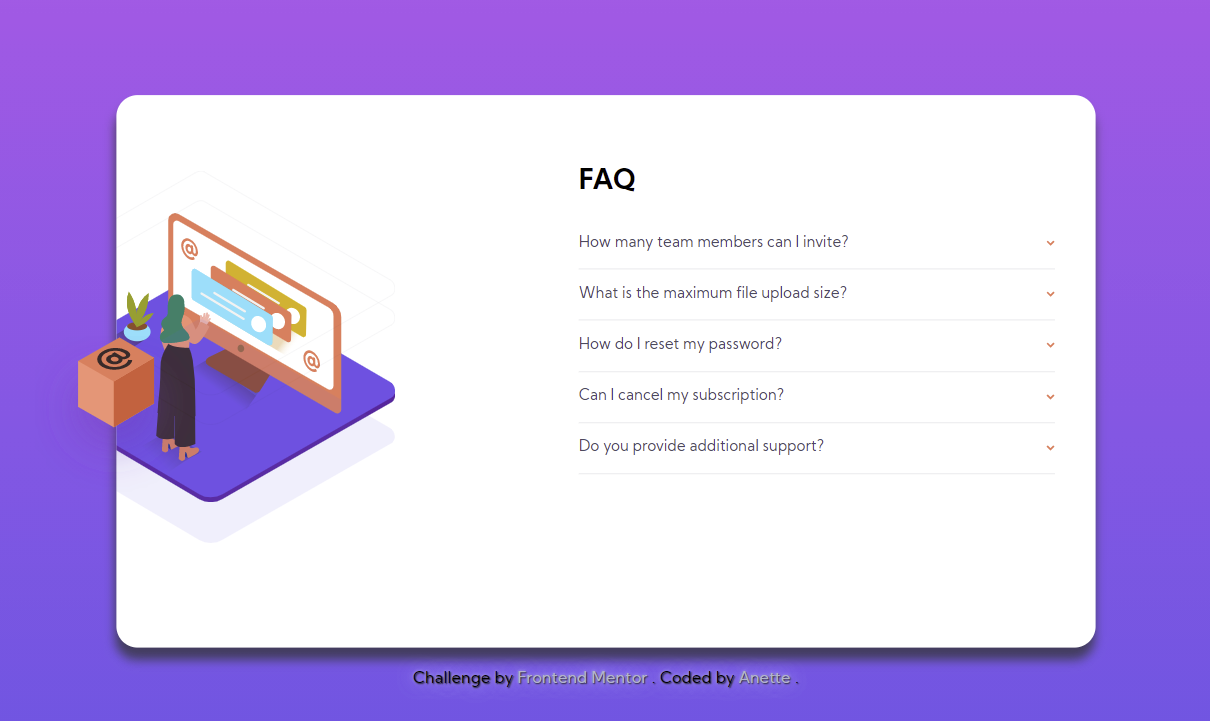
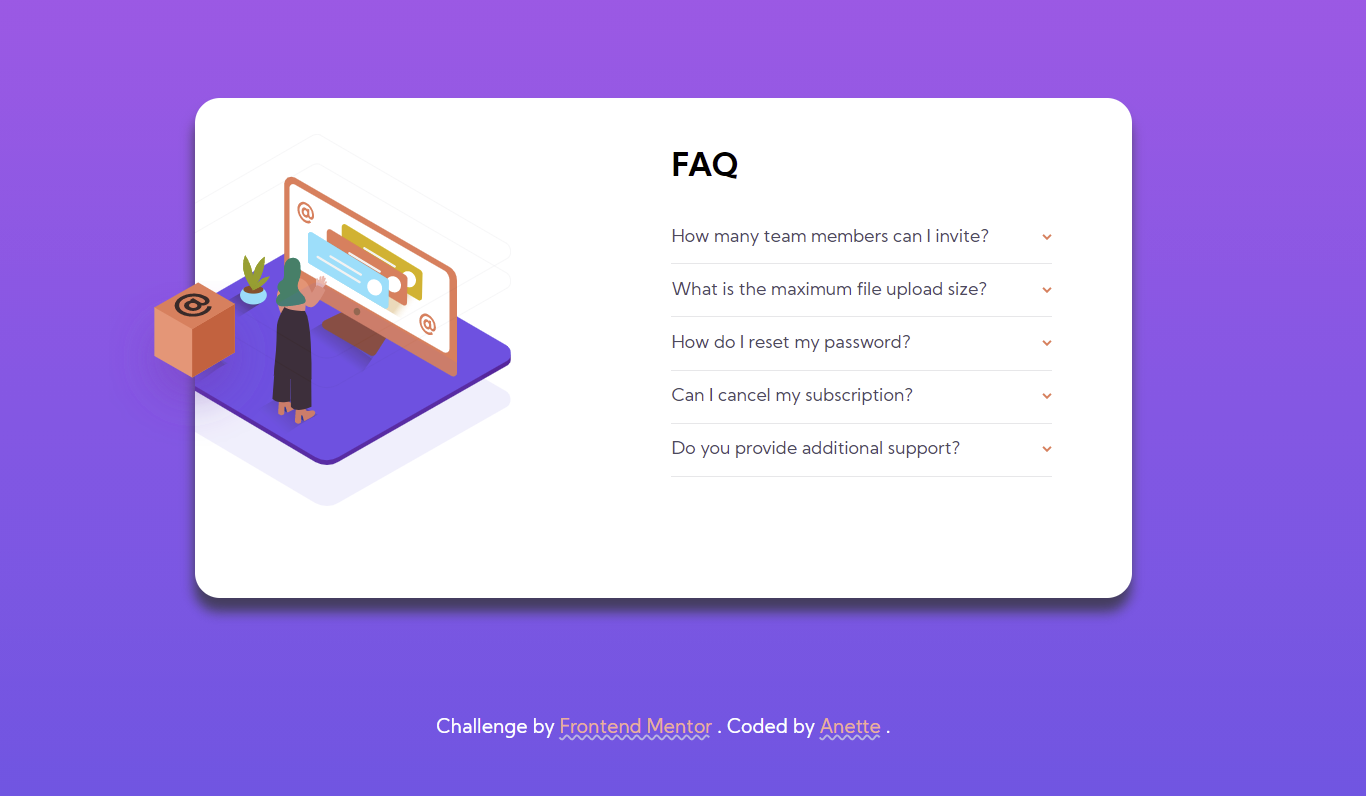
fixed the functionality to open and close tabs

diff --git a/src/App.css b/src/App.css
@@ -10,13 +10,13 @@
   background: #fff;
   border-radius: 25px;
   position: relative;
-  width: 80%;
+  width: 65%;
   display: flex;
   flex-direction: column;
   justify-content: center;
   align-content: center;
   margin: 0 auto;
-  height: 650px;
+  height: 500px;
   box-shadow: -1px 14px 12px 0px rgba(50, 50, 50, 0.75);
 }
 
@@ -25,18 +25,19 @@
   display: flex;
   flex-direction: row;
   gap: 1rem;
-  padding: 3rem;
+  padding: 1rem;
   width: 100%;
   height: 100%;
 }
 
 .cube::before {
-  overflow: visible;
   content: url('./images/illustration-box-desktop.svg');
+  overflow: visible;
   position: absolute;
   left: -6em;
-  bottom: 11em;
+  bottom: 8.5rem;
   z-index: 10;
+  transform: scale(90%);
 }
 
 .images {
@@ -45,21 +46,22 @@
 
   background-repeat: no-repeat;
   background-position: center;
-  background-size: 80%;
+  background-size: 100%;
+  height: 150%;
   display: flex;
   align-items: flex-start;
-  width: 50%;
+  width: 45%;
   position: relative;
-  right: 10em;
-  top: -1rem;
+  right: 1em;
+  top: -5rem;
   margin: -4rem;
 }
 
 .accordion {
-  width: 50%;
+  width: 45%;
   padding-right: 5rem;
-  padding-bottom: 3rem;
-  margin-left: 3rem;
+  padding-bottom: 1rem;
+  margin-left: 12rem;
   margin-right: 1rem;
 }
 
@@ -88,6 +90,9 @@
   display: flex;
   justify-content: space-between;
   align-items: center;
+  line-height: normal;
+  cursor: pointer;
+  user-select: none;
 }
 
 .line {
@@ -120,15 +125,16 @@
   position: relative;
   bottom: 100px;
   font-size: 1.2rem;
-  text-shadow: 1px 1px 2px hsl(0, 3%, 7%), 0 0 1em rgb(190, 190, 255), 0 0 0.2em rgb(190, 190, 255);
+  color: rgb(255, 255, 255);
 }
 .attribution a {
-  color: hsl(229, 22%, 75%);
-  text-decoration: none;
+  color: hsl(14, 100%, 79%);
+  text-decoration-style: wavy;
+  text-decoration-color: rgba(226, 223, 223, 0.658);
 }
 
 .attribution a:hover {
-  color: hsl(0, 0%, 11%);
+  filter: brightness(130%);
 }
 
 @media screen and (max-width: 600px) {

diff --git a/src/components/Card/Card.js b/src/components/Card/Card.js
@@ -4,41 +4,26 @@ import arrow from '../../images/icon-arrow-down.svg';
 import '../../App.css';
 
 const Card = ({ options, title }) => {
-  const [activeIndex, setActiveIndex] = useState(null);
+  const [visible, setVisible] = useState(false);
 
-  const onTitleClick = index => {
-    setActiveIndex(index);
+  const hiddenWhenVisible = { display: visible ? '' : 'none' };
+
+  const onTitleClick = () => {
+    console.log(visible);
+    setVisible(!visible);
   };
 
-  const renderedOptions = options.map((option, index) => {
-    return (
-      <div key={option.question}>
-        <div
-          onClick={() => onTitleClick(index)}
-          className={`flex ${index === activeIndex ? '' : 'active'}`}
-        >
-          <p className={`question ${index === activeIndex ? 'bold' : ''}`}>{option.question}</p>
-          <img className={`${index === activeIndex ? 'arrow' : ''}`} src={arrow} alt='arrow' />
-        </div>
-        <div className={`content ${index === activeIndex ? '' : 'active'}`}>
-          <p className='answer'>{option.answer}</p>
-        </div>
-        <div className='line'></div>
-      </div>
-    );
-  });
-
   return (
-    <div className='card'>
-      <div className='cube'></div>
-      <div className='container'>
-        <div className='images'></div>
-        <div className='accordion'>
-          <h1 className='title'>{title}</h1>
-          <div>{renderedOptions}</div>
-        </div>
+    <React.Fragment>
+      <div onClick={onTitleClick} className='flex hover'>
+        <p className={`question ${!options.id === visible ? '' : 'bold'}`}>{options.question}</p>
+        <img className={`${!options.id === visible ? '' : 'arrow'}`} src={arrow} alt='arrow' />
       </div>
-    </div>
+      <div style={hiddenWhenVisible}>
+        <p className='answer'>{options.answer}</p>
+      </div>
+      <div className='line'></div>
+    </React.Fragment>
   );
 };
 

diff --git a/src/App.js b/src/App.js
@@ -6,24 +6,29 @@ import './App.css';
 
 const options = [
   {
+    id: 1,
     question: 'How many team members can I invite? ',
     answer:
       'You can invite up to 2 additional users on the Free plan. There is no limit on team members for the Premium plan.',
   },
   {
+    id: 2,
     question: 'What is the maximum file upload size?',
     answer: 'No more than 2GB. All files in your account must fit your allotted storage space.',
   },
   {
+    id: 3,
     question: 'How do I reset my password?',
     answer:
       'Click “Forgot password” from the login page or “Change password” from your profile page. A reset link will be emailed to you.',
   },
   {
+    id: 4,
     question: 'Can I cancel my subscription?',
     answer: 'Yes! Send us a message and we’ll process your request no questions asked.',
   },
   {
+    id: 5,
     question: 'Do you provide additional support?',
     answer:
       'Chat and email support is available 24/7. Phone lines are open during normal business hours.',
@@ -34,7 +39,19 @@ const App = () => {
   return (
     <div>
       <div className='main'>
-        <Card title='FAQ' options={options} />
+        <div className='card'>
+          <div className='cube'></div>
+          <div className='container'>
+            <div className='images'></div>
+
+            <div className='accordion'>
+              <h1 className='title'>FAQ</h1>
+              {options.map(option => (
+                <Card key={option.id} options={option} />
+              ))}
+            </div>
+          </div>
+        </div>
       </div>
       <Footer />
     </div>
